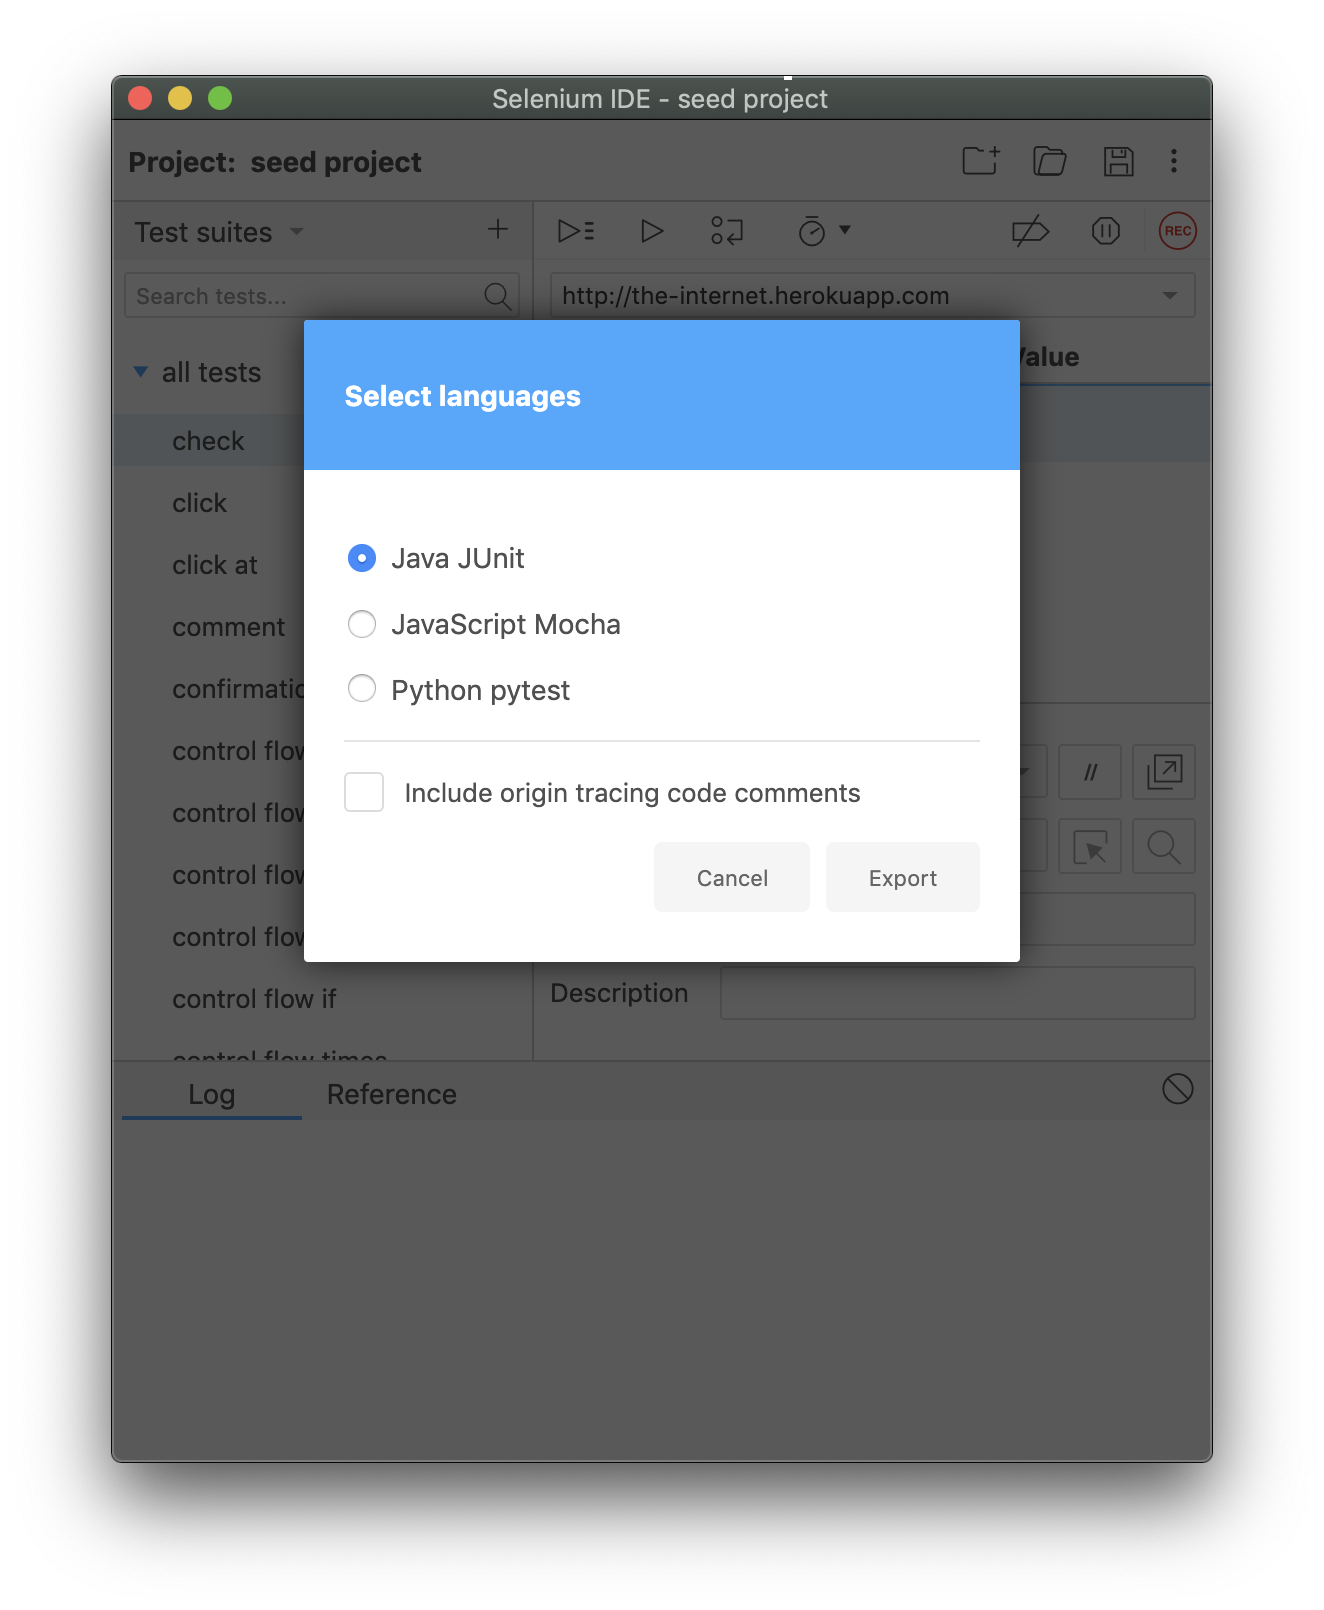
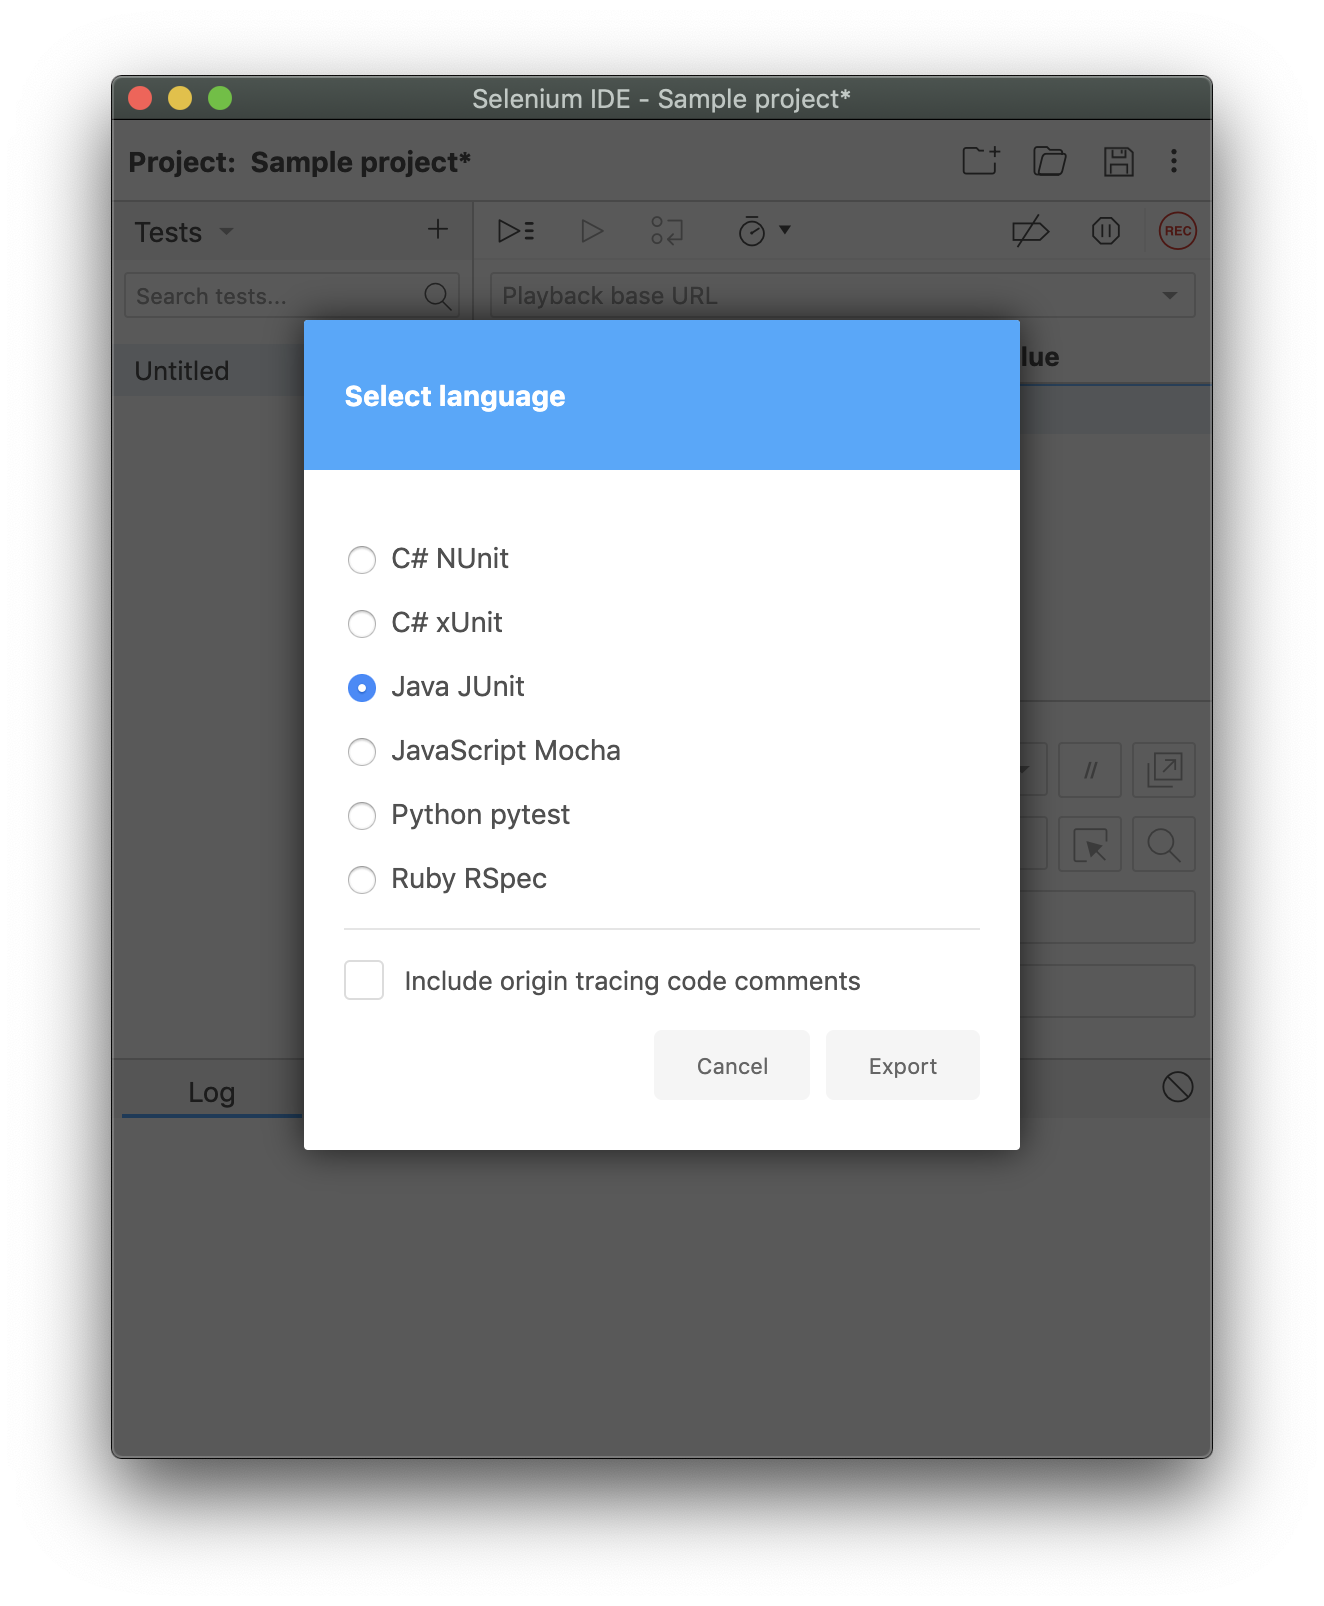
Updated the lead in blurb and screenshot for the code export docs

diff --git a/docs/introduction/code-export.md b/docs/introduction/code-export.md
@@ -24,13 +24,14 @@ This will place inline code comments in the exported file with details about the
 Currently, export to the following languages and test frameworks is supported.
 
 - C# NUnit
+- C# xUnit
 - Java JUnit
 - JavaScript Mocha
 - Python pytest
 
-We intend to support all of the officially supported programming language bindings for Selenium (e.g., Java, JavaScript, C#, Python, and Ruby) in at least one testing framework for each language.
+We support all of the officially supported programming language bindings for Selenium (e.g., C#, Java, JavaScript, Python, and Ruby) in at least one testing framework for each language.
 
-Contributions are welcome to help add new languages and test frameworks for a given language. See [How To Contribute](code-export.md#how-to-contribute) for details on how.
+Contributions are welcome to help add new test frameworks for a given language. See [How To Contribute](code-export.md#how-to-contribute) for details on how.
 
 ### C# NUnit
 
